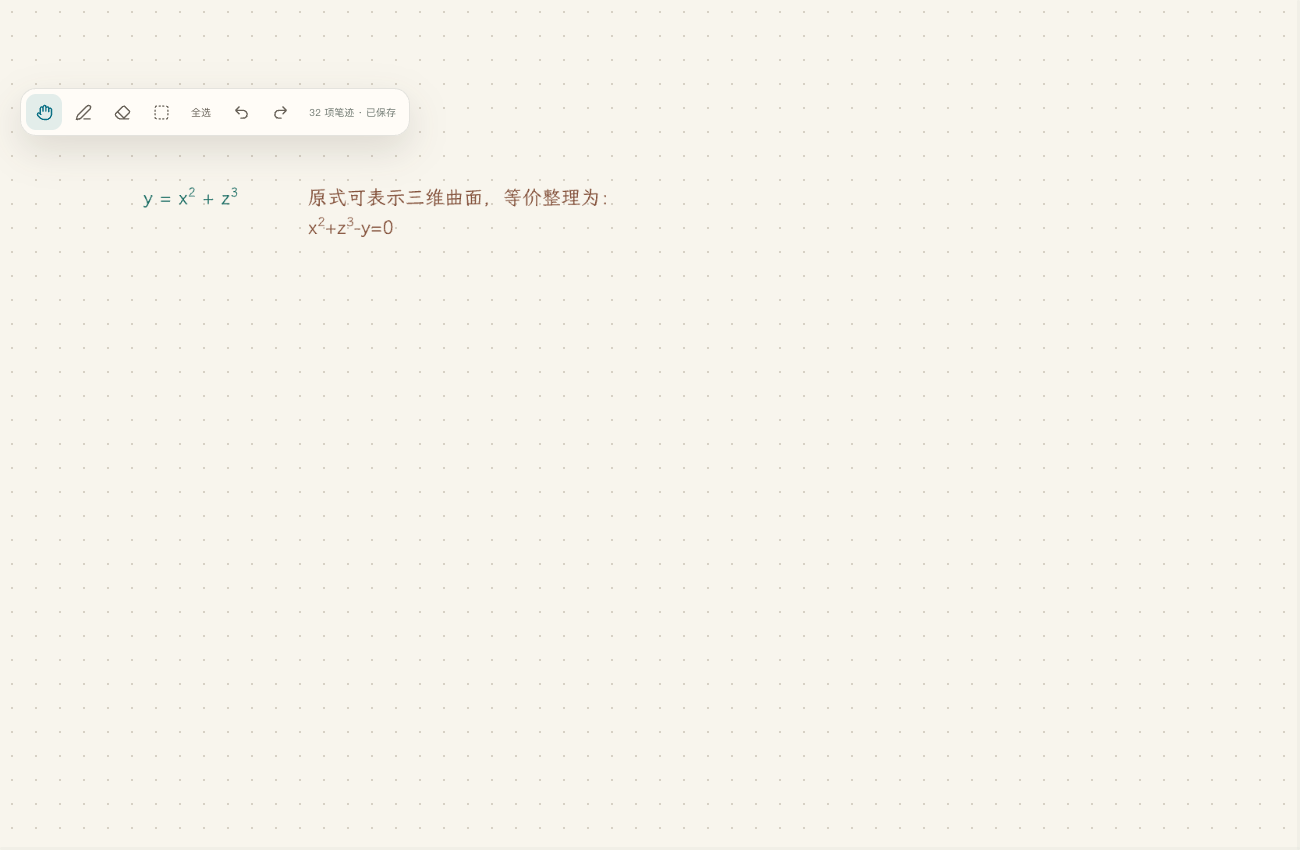
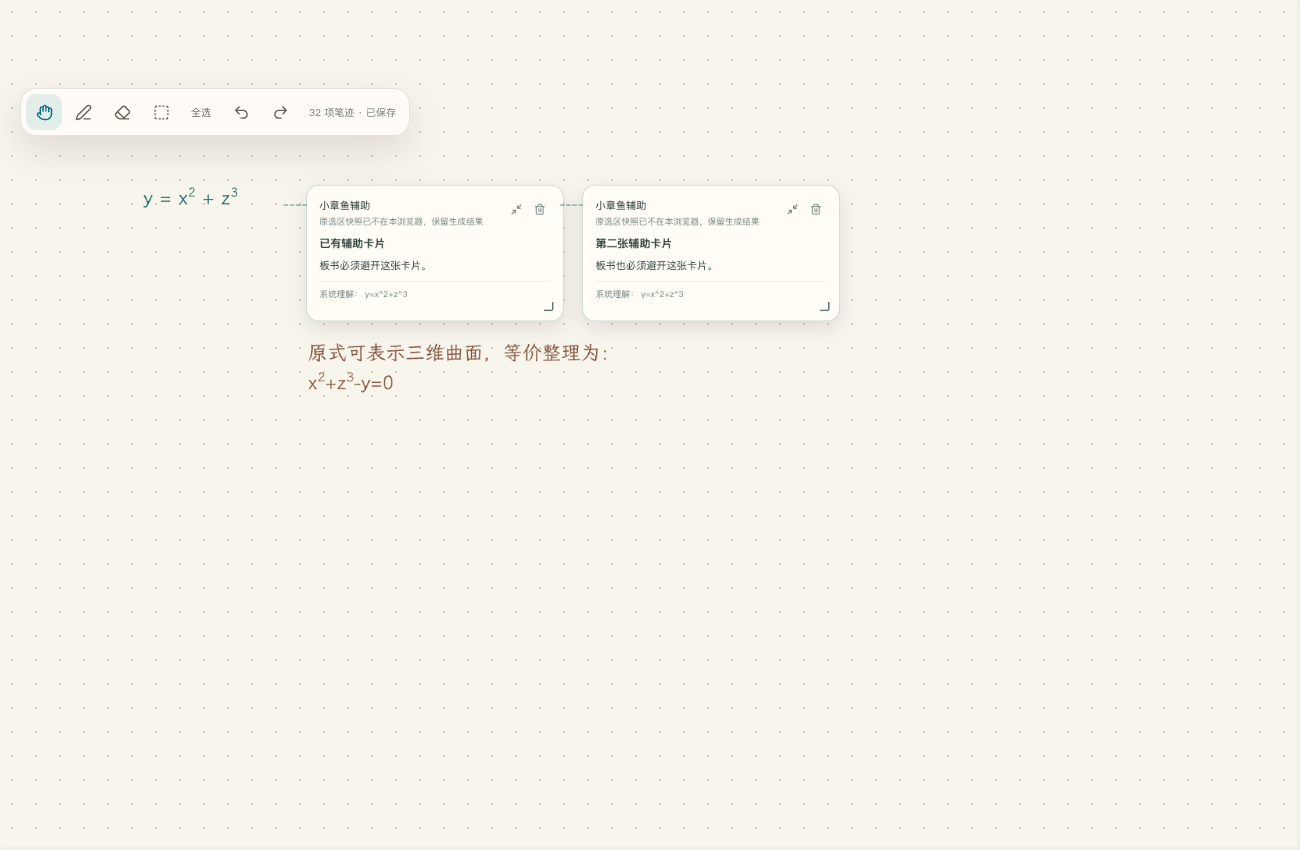
Unify selection loading and board placement

Changed region(s): [[0.2154, 0.2141, 0.5846, 0.3671], [0.2154, 0.3976, 0.4615, 0.4588]]

diff --git a/src/learning/selection-enhancement-layer.tsx b/src/learning/selection-enhancement-layer.tsx
@@ -284,7 +284,10 @@ export function SelectionEnhancementLayer({
   const selectionQuestions = questions.filter((question) =>
     question.origin === "selection"
     && question.source
-    && question.status !== "pending");
+    && (
+      question.status !== "pending"
+      || question.answerPresentation === "card"
+    ));
   const sourceIds = new Set([
     ...artifacts.map((artifact) => artifact.source.source_id),
     ...selectionQuestions.map((question) => question.source!.sourceId),
@@ -438,7 +441,7 @@ export function SelectionEnhancementLayer({
             >
               <div className="learning-selection-source-link" aria-hidden="true" />
               <SelectionQuestionSection question={item.question} />
-              {failed ? (
+              {failed || item.question.status === "pending" ? (
                 <>
                   <header>
                     <div>
@@ -448,11 +451,16 @@ export function SelectionEnhancementLayer({
                   </header>
                   <div
                     className="learning-selection-enhancement-content learning-selection-enhancement-placeholder"
-                    role="alert"
+                    role={failed ? "alert" : "status"}
                     aria-live="polite"
                   >
-                    <strong>回答生成失败</strong>
-                    <p>{item.question.error ?? "选区辅助内容生成失败，请重试"}</p>
+                    <strong>{failed
+                      ? "回答生成失败"
+                      : "正在生成小章鱼辅助"}</strong>
+                    <p>{failed
+                      ? item.question.error ?? "选区辅助内容生成失败，请重试"
+                      : "正在理解这部分内容，完成后会在这里展示。"}</p>
+                    {!failed ? <span aria-hidden="true" /> : null}
                   </div>
                 </>
               ) : null}
@@ -480,6 +488,7 @@ export function SelectionEnhancementLayer({
                 top: item.top + 8,
               }}
               data-source-id={artifact.source.source_id}
+              data-enhancement-id={artifact.turn_id}
               onClick={() => {
                 setMinimizedTurnIds((current) => {
                   const next = new Set(current);
@@ -511,6 +520,8 @@ export function SelectionEnhancementLayer({
                 `${SCENE3D_HEIGHT * cardScale}px`,
             } as CSSProperties}
             data-source-id={artifact.source.source_id}
+            data-question-id={question?.id}
+            data-enhancement-id={artifact.turn_id}
             data-card-scale={cardScale.toFixed(2)}
           >
             <div className="learning-selection-source-link" aria-hidden="true" />

diff --git a/src/learning/selection-enhancement-layer.test.tsx b/src/learning/selection-enhancement-layer.test.tsx
@@ -63,6 +63,45 @@ function dispatchPointerEvent(
 }
 
 describe("SelectionEnhancementLayer", () => {
+  it("reserves a loading card only for card-bound selection answers", () => {
+    const pending = {
+      id: "pending-card",
+      sessionId: "learn-1",
+      text: "请画出函数图像",
+      origin: "selection" as const,
+      createdAt: "2026-09-07T10:00:00.000Z",
+      status: "pending" as const,
+      source: {
+        sourceId: "source-1",
+        bounds: { x: 10, y: 20, width: 120, height: 70 },
+      },
+      answerPresentation: "card" as const,
+    };
+    const { rerender } = render(
+      <SelectionEnhancementLayer
+        artifacts={[]}
+        sources={[]}
+        questions={[pending]}
+        currentDocumentVersion={1}
+        onDelete={vi.fn()}
+      />,
+    );
+
+    expect(screen.getByRole("status").textContent)
+      .toContain("正在生成小章鱼辅助");
+
+    rerender(
+      <SelectionEnhancementLayer
+        artifacts={[]}
+        sources={[]}
+        questions={[{ ...pending, answerPresentation: "board-writing" }]}
+        currentDocumentVersion={1}
+        onDelete={vi.fn()}
+      />,
+    );
+    expect(screen.queryByText("正在生成小章鱼辅助")).toBeNull();
+  });
+
   it("renders LaTeX throughout generated auxiliary card text", () => {
     const { container } = render(
       <SelectionEnhancementLayer
@@ -82,6 +121,7 @@ describe("SelectionEnhancementLayer", () => {
     );
 
     const card = container.querySelector(".learning-selection-enhancement");
+    expect(card?.getAttribute("data-enhancement-id")).toBe(artifact.turn_id);
     expect(card?.querySelectorAll(".katex").length).toBeGreaterThanOrEqual(4);
     expect(card?.textContent).not.toContain("$");
     expect(card?.textContent).toContain("函数");
@@ -352,7 +392,7 @@ describe("SelectionEnhancementLayer", () => {
     expect(screen.getByText("原来的说明")).toBeTruthy();
   });
 
-  it("does not render a pending selection card while the teacher bubble is loading", () => {
+  it("does not resurrect a loading card for legacy pending records without a surface", () => {
     const question: WhiteboardQuestionRecord = {
       id: "turn-pending",
       sessionId: "learn-question-pending",

diff --git a/scripts/whiteboard-assistance-probe.tsx b/scripts/whiteboard-assistance-probe.tsx
@@ -21,9 +21,24 @@ const artifact: SelectionEnhancementArtifact = {
   interpretation: { kind: "math", content: "y=x^2+z^3", confidence: "high" },
   response: { kind: "board_writing", title: "等价整理", text: "原式可表示三维曲面，等价整理为：\nx^2+z^3-y=0", lines: ["原式可表示三维曲面，等价整理为：", "x^2+z^3-y=0"] },
 };
+const cardArtifact: SelectionEnhancementArtifact = {
+  profile: "octos.selection-enhancement", version: "0.2", turn_id: "probe-card",
+  created_at: "2026-09-06T23:59:00Z", tool_id: "explain",
+  source: { ...artifact.source, source_id: "probe-card-source" },
+  board: { board_id: "probe", revision: 0, targets: [] },
+  interpretation: { kind: "math", content: "y=x^2+z^3", confidence: "high" },
+  response: { kind: "explanation", title: "已有辅助卡片", text: "板书必须避开这张卡片。" },
+};
+const secondCardArtifact: SelectionEnhancementArtifact = {
+  ...cardArtifact,
+  turn_id: "probe-card-2",
+  created_at: "2026-09-06T23:59:30Z",
+  source: { ...cardArtifact.source, source_id: "probe-card-source-2" },
+  response: { kind: "explanation", title: "第二张辅助卡片", text: "板书也必须避开这张卡片。" },
+};
 host.renderWriting = (show, session = "probe") => root.render(
   <div style={{ width: "100vw", height: "100vh" }}>
-    <OllLessonBoard runtime={null} inkSessionId={session} selectionEnhancements={show ? [artifact] : []} />
+    <OllLessonBoard runtime={null} inkSessionId={session} selectionEnhancements={show ? [cardArtifact, secondCardArtifact, artifact] : []} />
   </div>,
 );
 async function start() {

diff --git a/src/learning/selection-tools.test.ts b/src/learning/selection-tools.test.ts
@@ -1,5 +1,9 @@
 import { describe, expect, it } from "vitest";
-import { availableSelectionTools, selectionToolRegistry } from "./selection-tools";
+import {
+  availableSelectionTools,
+  selectionAnswerPresentation,
+  selectionToolRegistry,
+} from "./selection-tools";
 
 describe("selection tool registry", () => {
   it("is finite, auditable, and never claims it can change the learner source", () => {
@@ -12,6 +16,24 @@ describe("selection tool registry", () => {
     expect(selectionToolRegistry.filter((tool) =>
       tool.action === "local-enhancement",
     ).every((tool) => tool.changesSource === false)).toBe(true);
+  });
+
+  it("chooses and freezes the answer surface before generation", () => {
+    expect(selectionAnswerPresentation("check-and-suggest", "检查一下", true))
+      .toBe("board-writing");
+    expect(selectionAnswerPresentation("generate-plot", "生成函数图像", true))
+      .toBe("card");
+    expect(selectionAnswerPresentation("explain", "解释这部分", true))
+      .toBe("card");
+    expect(selectionAnswerPresentation(
+      "custom-question",
+      "将其更改为可以绘制函数图像的形式",
+      true,
+    )).toBe("board-writing");
+    expect(selectionAnswerPresentation("custom-question", "现在画出函数图像", true))
+      .toBe("card");
+    expect(selectionAnswerPresentation("check-and-suggest", "检查一下", false))
+      .toBe("card");
   });
 
   it("offers plotting only for recognized math or an explicitly selected math fragment", () => {

diff --git a/src/learning/selection-tools.ts b/src/learning/selection-tools.ts
@@ -7,6 +7,32 @@ export type SelectionToolId =
   | "generate-plot"
   | "custom-question";
 
+export type SelectionAnswerPresentation = "card" | "board-writing";
+
+const BOARD_FORM_REQUEST = /(改|更改|修改|整理|转换|转成|变成|写成).{0,24}(形式|表达式|方程|可绘|可以绘)/iu;
+const BOARD_EDIT_REQUEST = /(检查|建议|批改|纠错|纠正|改写|修改|更改|整理|转换|转写|誊写|抄写|板书|写在.{0,8}(白板|旁边)|check|correct|rewrite|transcribe)/iu;
+const VISUAL_REQUEST = /(画|绘制|生成|展示|显示).{0,12}(图|图像|曲线|曲面)|(plot|graph|visuali[sz]e)/iu;
+
+/**
+ * Decide the answer surface before generation starts. The same value is sent
+ * to the skill as a contract, so the pending UI cannot predict one surface
+ * and receive another one after the model finishes.
+ */
+export function selectionAnswerPresentation(
+  toolId: SelectionToolId,
+  learnerRequest: string,
+  boardWritingAvailable: boolean,
+): SelectionAnswerPresentation {
+  if (!boardWritingAvailable) return "card";
+  if (toolId === "check-and-suggest") return "board-writing";
+  if (toolId === "explain" || toolId === "generate-plot") return "card";
+
+  const request = learnerRequest.trim();
+  if (BOARD_FORM_REQUEST.test(request)) return "board-writing";
+  if (VISUAL_REQUEST.test(request)) return "card";
+  return BOARD_EDIT_REQUEST.test(request) ? "board-writing" : "card";
+}
+
 export interface SelectionToolDefinition {
   id: SelectionToolId;
   label: string;

diff --git a/src/learning/learning-workspace.tsx b/src/learning/learning-workspace.tsx
@@ -101,7 +101,10 @@ import {
   type SelectionEnhancementArtifact,
   type SelectionEnhancementState,
 } from "./selection-enhancements";
-import type { SelectionToolId } from "./selection-tools";
+import {
+  selectionAnswerPresentation,
+  type SelectionToolId,
+} from "./selection-tools";
 import { isCurrentInkMergeCompletion } from "./ink-replay";
 import { OctosTeacher } from "./octos-teacher";
 import { StudentInputDock } from "./student-input-dock";
@@ -1948,6 +1951,11 @@ export function LearningWorkspace({
       setSendError(null);
       setTextTurnPending(true);
       const turnId = delivery?.turnId ?? crypto.randomUUID();
+      const answerPresentation = selectionAnswerPresentation(
+        toolId,
+        question,
+        boardWritingReady,
+      );
       addWhiteboardQuestion({
         id: turnId,
         sessionId,
@@ -1955,6 +1963,7 @@ export function LearningWorkspace({
         origin: "selection",
         createdAt: new Date().toISOString(),
         status: "pending",
+        answerPresentation,
         source: {
           sourceId: snapshot.source_id,
           bounds: { ...snapshot.bounds },
@@ -1984,6 +1993,7 @@ export function LearningWorkspace({
             : undefined,
           boardContext,
           toolId,
+          deliveryMode: answerPresentation,
         });
         const invocation = await invokeSkillAction(
           sessionId,

diff --git a/src/learning/oll/oll-lesson-runtime.test.tsx b/src/learning/oll/oll-lesson-runtime.test.tsx
@@ -1655,10 +1655,9 @@ describe("OLL lesson Runtime integration", () => {
       destroy: vi.fn(() => Promise.resolve()),
     };
     const onAsk = vi.fn(async () => undefined);
-    const onClassify = vi.fn(async (): Promise<SelectionClassification> => ({
-      kind: "math",
-      content: "y=x^2",
-      confidence: "high",
+    let resolveClassification!: (value: SelectionClassification) => void;
+    const onClassify = vi.fn(() => new Promise<SelectionClassification>((resolve) => {
+      resolveClassification = resolve;
     }));
     const onVoiceCaptureChange = vi.fn();
     mountInkRuntimeMock.mockReturnValue(ink);
@@ -1700,6 +1699,12 @@ describe("OLL lesson Runtime integration", () => {
         targets: expect.any(Array),
       }),
       selectionImage: expect.any(File),
+    }));
+    expect(screen.getByText("正在识别选区…")).toBeTruthy();
+    await act(async () => resolveClassification({
+      kind: "math",
+      content: "y=x^2",
+      confidence: "high",
     }));
     expect(await screen.findByRole("button", { name: "生成函数图像" })).toBeTruthy();
     fireEvent.click(screen.getByRole("button", { name: "问小章鱼" }));

diff --git a/src/learning/whiteboard-questions.ts b/src/learning/whiteboard-questions.ts
@@ -13,6 +13,8 @@ export interface WhiteboardQuestionRecord {
   origin: "composer" | "selection";
   createdAt: string;
   status: WhiteboardQuestionStatus;
+  /** Surface reserved while a selection answer is being generated. */
+  answerPresentation?: "card" | "board-writing";
   error?: string;
   /** Exact session-scoped camera frame submitted with this question. */
   imagePath?: string;
@@ -67,6 +69,11 @@ function validQuestion(
   if (question.error !== undefined && typeof question.error !== "string") {
     return false;
   }
+  if (
+    question.answerPresentation !== undefined
+    && question.answerPresentation !== "card"
+    && question.answerPresentation !== "board-writing"
+  ) return false;
   if (question.imagePath !== undefined && typeof question.imagePath !== "string") {
     return false;
   }

diff --git a/src/learning/learning-workspace.test.tsx b/src/learning/learning-workspace.test.tsx
@@ -1034,7 +1034,8 @@ describe("LearningWorkspace", () => {
     await waitFor(() => expect(rejectFirst).toBeTypeOf("function"));
     expect(screen.getByText("小章鱼正在看你框选的这部分。")).toBeTruthy();
     expect(document.querySelector(".learning-whiteboard-loading-block")).toBeNull();
-    expect(document.querySelector(".learning-selection-enhancement")).toBeNull();
+    expect(document.querySelector(".learning-selection-enhancement")).toBeTruthy();
+    expect(screen.getByText("正在生成小章鱼辅助")).toBeTruthy();
     expect(screen.queryByText("正在准备课程")).toBeNull();
     await act(async () => { rejectFirst(new BridgeTimeoutError("skill.action.invoke", 30000)); await first; });
     const files = ["expired-turn", "success-turn"].map((turn) => ({

diff --git a/src/learning/selection-enhancements.ts b/src/learning/selection-enhancements.ts
@@ -148,6 +148,7 @@ export interface SelectionEnhancementTurnContext {
   boardSummary?: string;
   boardContext?: SelectionBoardContext;
   toolId?: SelectionToolId;
+  deliveryMode?: "card" | "board-writing";
 }
 
 export interface SelectionClassificationTurnContext {
@@ -253,6 +254,7 @@ export function buildSelectionEnhancementActionArguments(
       ? { recognition_confidence: context.recognitionConfidence }
       : {}),
     tool_id: context.toolId ?? "custom-question",
+    ...(context.deliveryMode ? { delivery_mode: context.deliveryMode } : {}),
     board: selectionBoardArgument(context.boardContext ?? {
       boardId: context.sessionId,
       boardRevision: 0,

diff --git a/src/learning/selection-enhancements.test.ts b/src/learning/selection-enhancements.test.ts
@@ -145,6 +145,7 @@ describe("selection enhancement persistence", () => {
       recognitionConfidence: "high",
       learnerRequest: "解释这部分",
       toolId: "explain",
+      deliveryMode: "card",
       boardContext: {
         boardId: "board-1",
         boardRevision: 8,
@@ -163,6 +164,7 @@ describe("selection enhancement persistence", () => {
       },
     });
     expect(argumentsValue).toMatchObject({
+      delivery_mode: "card",
       paths: ["turn_media/selection.png"],
       recognized_content: "y = sin(x)",
       recognition_confidence: "high",

diff --git a/src/learning/oll/oll-lesson-runtime.tsx b/src/learning/oll/oll-lesson-runtime.tsx
@@ -2523,6 +2523,11 @@ export function LearningWhiteboard({
             && inkState.selected_count > 0
             && onAskInkSelection ? (
               <>
+                {selectionClassificationStatus === "loading" ? (
+                  <span className="learning-ink-classification-status" role="status">
+                    正在识别选区…
+                  </span>
+                ) : null}
                 {quickSelectionTools.map((tool) => (
                   <button
                     key={tool.id}
